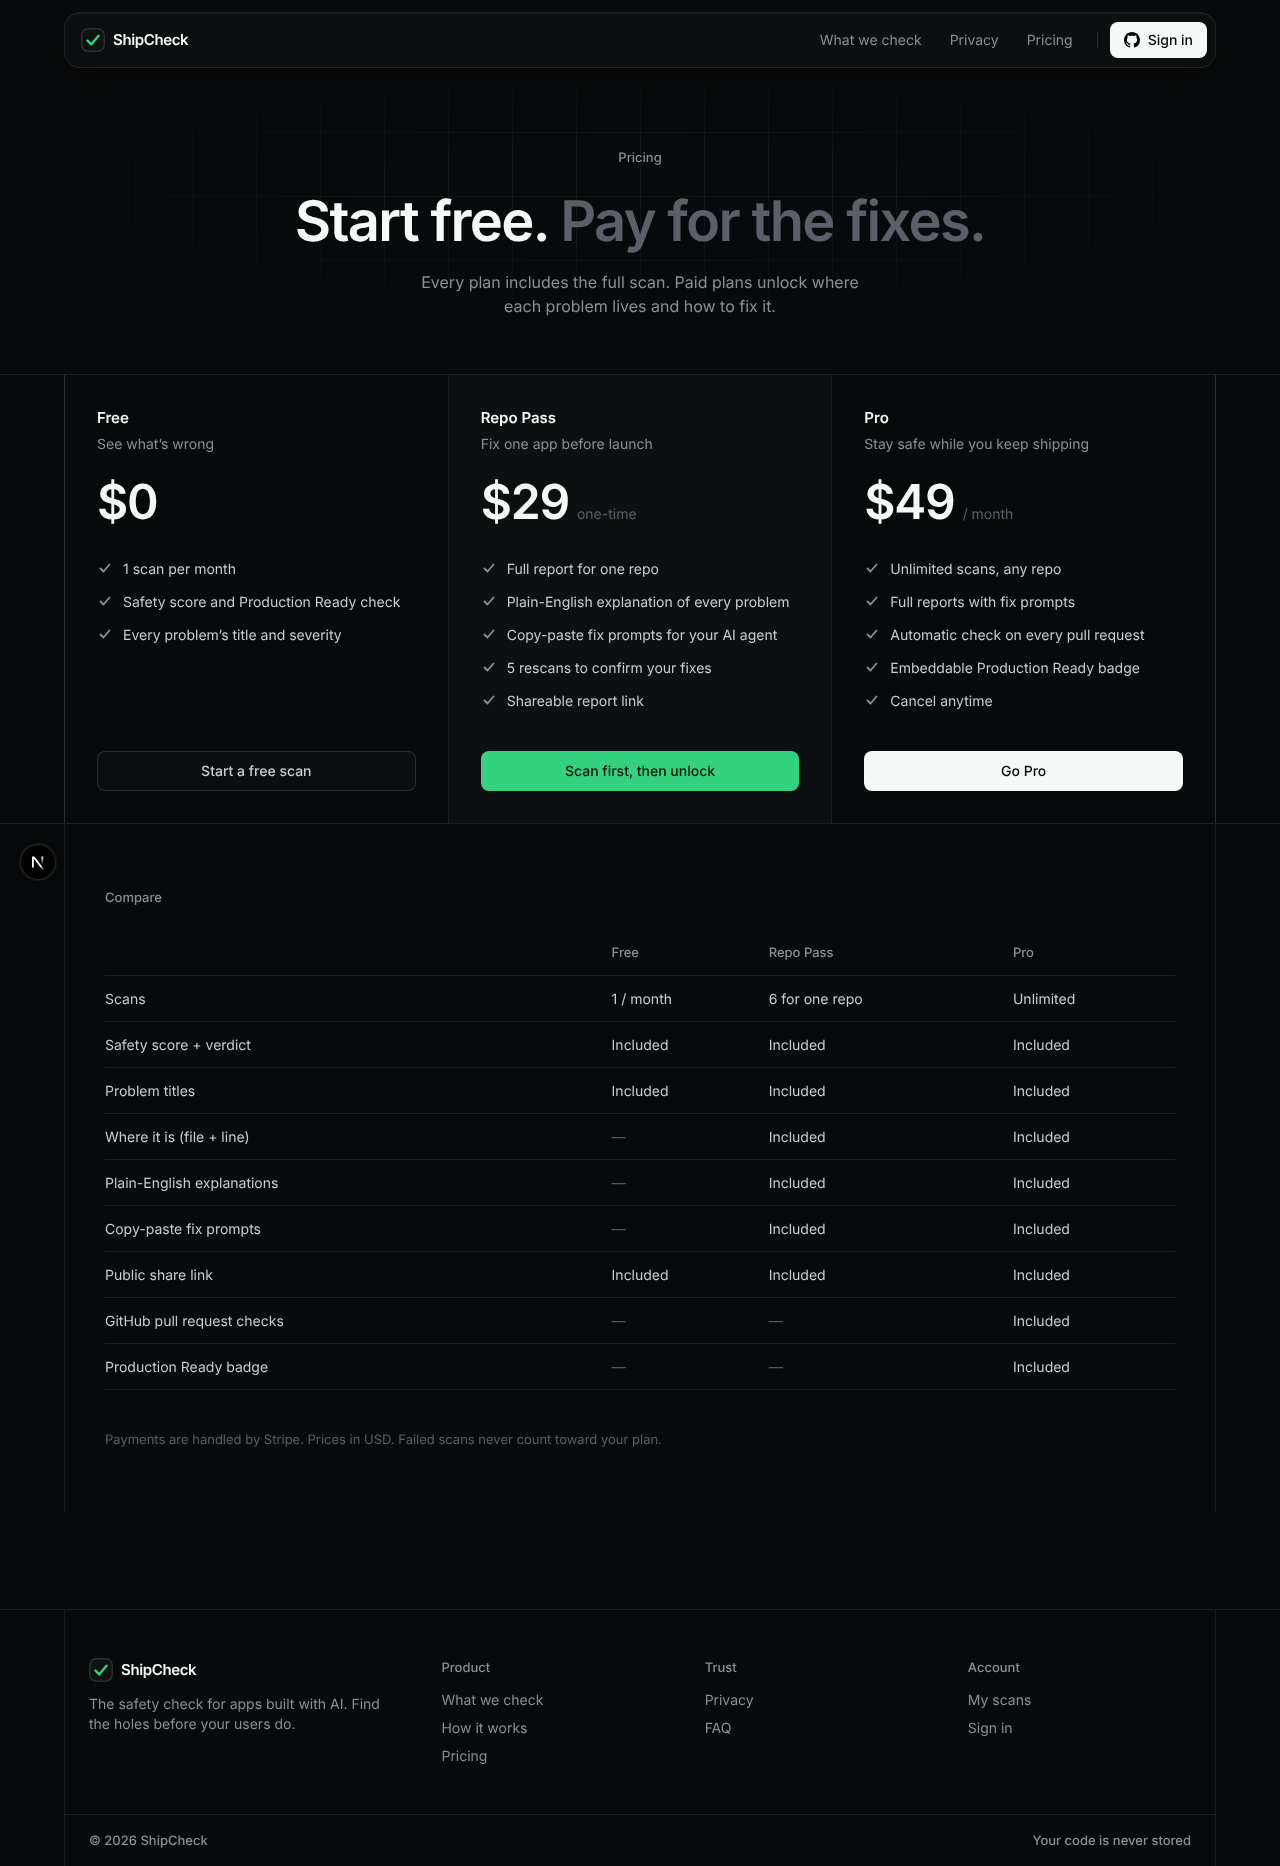
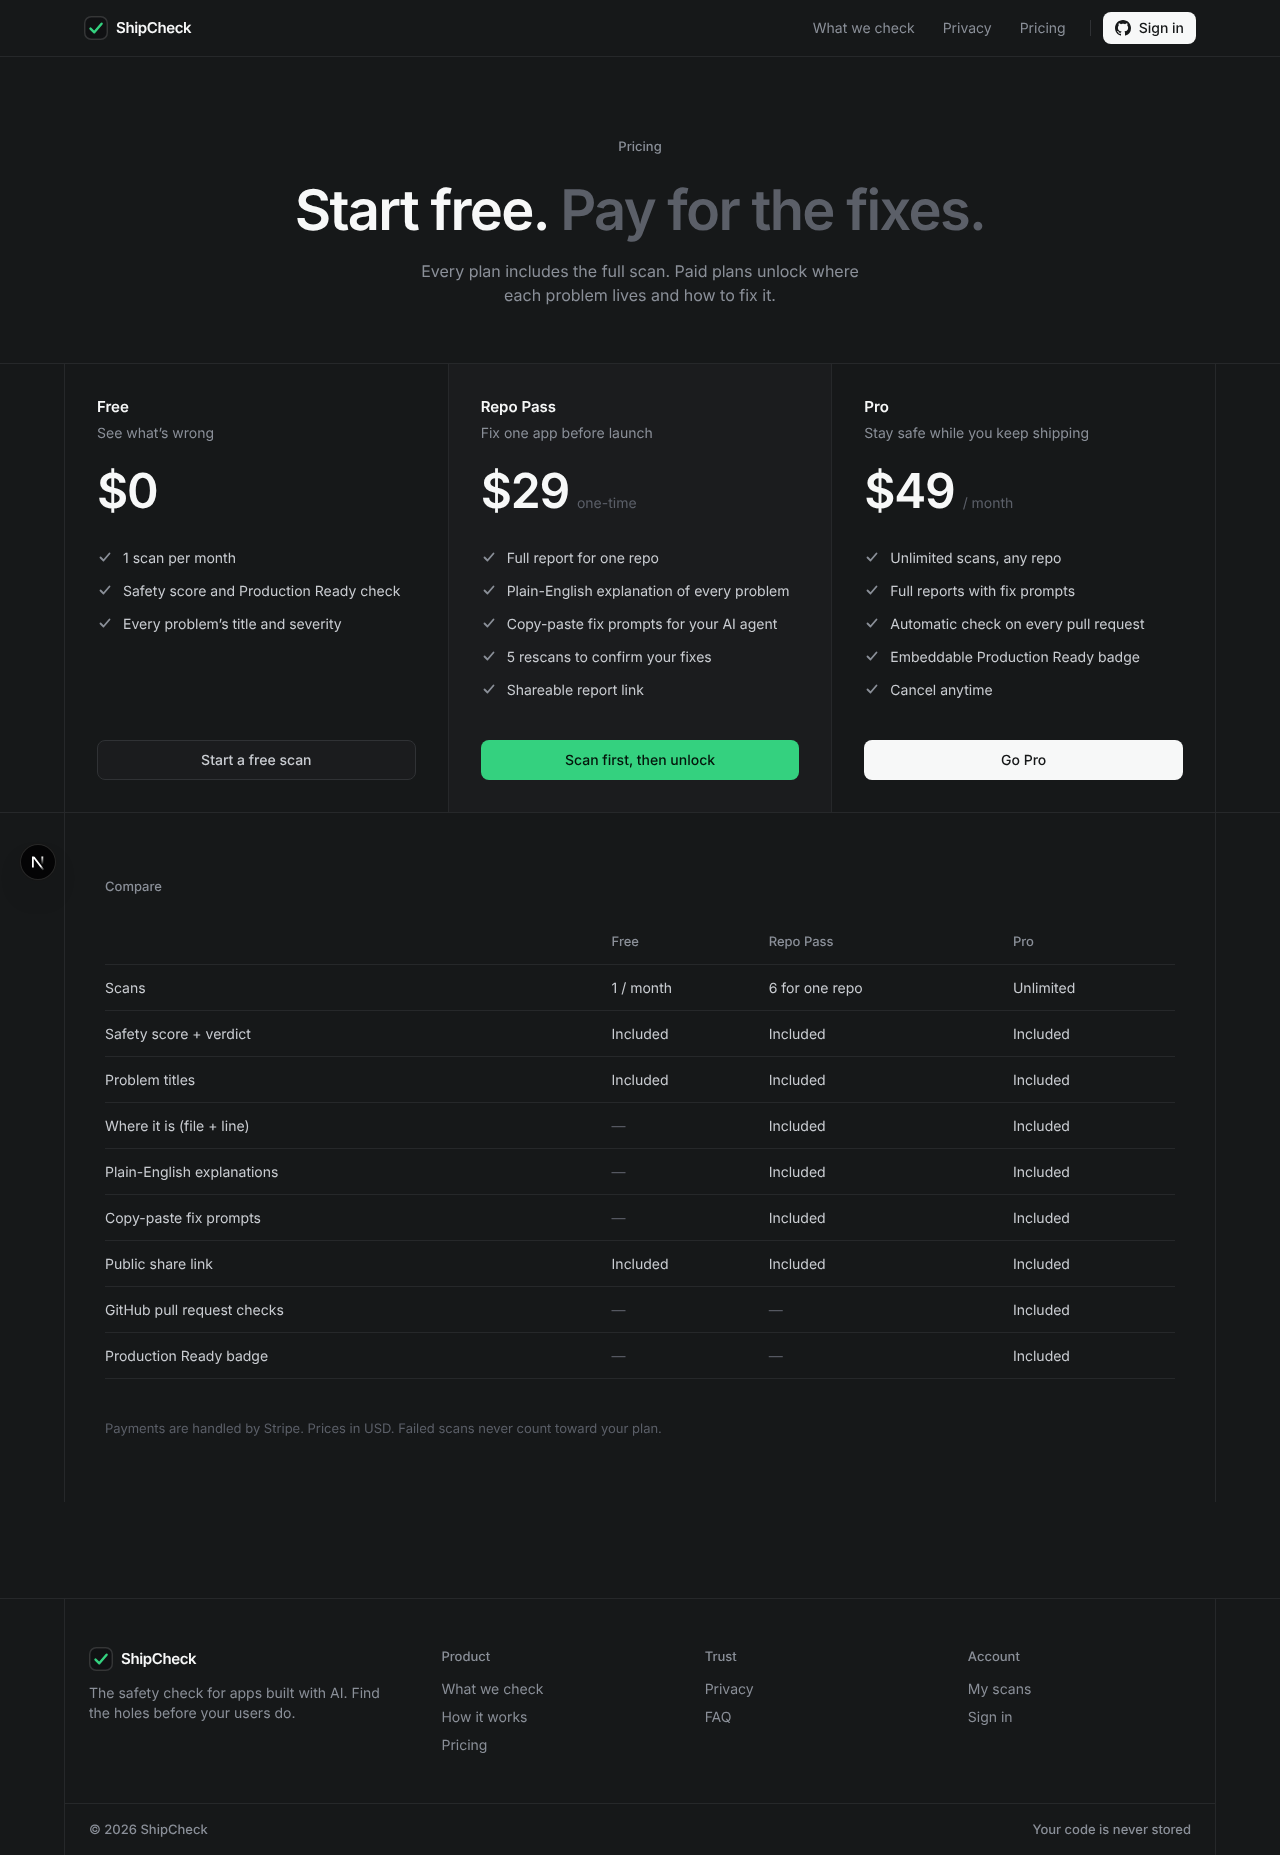
Match Linear's surface model: flush cards, hairline borders
Page #161819, cards #1b1c1e, nested boxes #222426 (lighter, never darker),
borders #26282a. Cards and windows lose their drop shadows and use 12px
corners; the floating header becomes a flat bar with a bottom hairline;
inputs and code boxes switch from black overlays to the nested surface;
decorative grid and dot textures are removed.

Claude-Session: https://claude.ai/code/session_018o5CNqjsf8rTVHTJeRiaFG

diff --git a/src/app/page.tsx b/src/app/page.tsx
@@ -34,11 +34,10 @@ export default async function Home({ searchParams }: PageProps<"/">) {
   const error = str(sp.error);
 
   return (
-    <div className="-mt-[68px]">
+    <div>
       {/* ── Hero ─────────────────────────────────────────────── */}
-      <section className="relative overflow-hidden pt-[68px]">
-        <div aria-hidden className="bg-grid fade-edges pointer-events-none absolute inset-0 opacity-60" />
-        <div className="relative mx-auto max-w-4xl px-5 pt-24 pb-16 text-center sm:pt-32">
+      <section className="relative">
+        <div className="relative mx-auto max-w-4xl px-5 pt-20 pb-16 text-center sm:pt-28">
           <p className="eyebrow">Pre-launch security audit for AI-built apps</p>
           <h1 className="display mt-6 text-[40px] text-balance sm:text-[56px] lg:text-[64px]">Is your vibe-coded app<br className="hidden sm:block" /> safe to launch?</h1>
           <p className="mx-auto mt-6 max-w-xl text-[17px] leading-relaxed text-balance text-ink-3 sm:text-lg">
@@ -111,7 +110,7 @@ export default async function Home({ searchParams }: PageProps<"/">) {
               <span className="font-mono text-[11px] text-ink-4">{String(i + 1).padStart(2, "0")}</span>
               <h3 className="mt-6 text-[17px] font-medium text-ink">{c.title}</h3>
               <p className="mt-2 text-sm leading-relaxed text-ink-3">{c.body}</p>
-              <div className="mt-6 flex items-center gap-2 rounded-lg border border-line bg-black/30 px-3 py-2 text-[12.5px] text-ink-2">
+              <div className="mt-6 flex items-center gap-2 rounded-lg border border-line bg-panel-2 px-3 py-2 text-[12.5px] text-ink-2">
                 <SeverityTag severity={c.sev} />
                 <span className="min-w-0 truncate">{c.example}</span>
               </div>
@@ -159,7 +158,7 @@ export default async function Home({ searchParams }: PageProps<"/">) {
           </div>
           <div className="space-y-4 p-5 text-[14px]">
             <div><p className="eyebrow">Why it matters</p><p className="mt-1.5 leading-relaxed text-ink-2">A user can change /invoices/123 to /invoices/124 and read someone else’s private data. It’s one of the most common real-world leaks.</p></div>
-            <div className="rounded-xl border border-line bg-black/40">
+            <div className="rounded-xl border border-line bg-panel-2">
               <div className="flex items-center justify-between border-b border-line px-3.5 py-2">
                 <span className="eyebrow">Fix prompt</span>
                 <span className="rounded-md bg-ink px-2 py-1 text-[12px] font-medium text-canvas">Copy prompt</span>
@@ -217,7 +216,7 @@ Please:
           </div>
           <Link href="/pricing" className="btn-ghost self-start sm:self-auto">Compare plans <ArrowRight /></Link>
         </div>
-        <div className="mt-10 grid gap-px overflow-hidden rounded-2xl border border-line bg-line sm:grid-cols-3">
+        <div className="mt-10 grid gap-px overflow-hidden rounded-xl border border-line bg-line sm:grid-cols-3">
           {[
             ["Free", "$0", "1 scan a month · see every problem’s title"],
             ["Repo Pass", "$29", "Full report + fix prompts for one repo · 5 rescans"],

diff --git a/src/app/globals.css b/src/app/globals.css
@@ -6,17 +6,20 @@
  * severity colours mean severity. No decorative glows or gradients.
  */
 :root {
-  --canvas: #08090a;
+  --canvas: #161819;
   color-scheme: dark;
 }
 
 @theme inline {
-  --color-canvas: #08090a;
-  --color-panel: #0e0f11;
-  --color-panel-2: #141518;
-  --color-panel-3: #1b1c20;
-  --color-line: rgb(255 255 255 / 0.08);
-  --color-line-2: rgb(255 255 255 / 0.13);
+  /* Surfaces sampled from Linear: cards sit almost flush with the page and are
+     separated by hairlines, not by contrast or shadow. Nested boxes go slightly
+     lighter, never darker. */
+  --color-canvas: #161819;
+  --color-panel: #1b1c1e;
+  --color-panel-2: #222426;
+  --color-panel-3: #2a2c2e;
+  --color-line: #26282a;
+  --color-line-2: #303235;
   --color-ink: #f7f8f8;
   --color-ink-2: #c9ccd1;
   --color-ink-3: #8a8f98;
@@ -44,12 +47,10 @@ body {
 
 /* ── Surfaces ─────────────────────────────────────────── */
 @utility card {
-  @apply rounded-2xl border border-line bg-panel;
-  box-shadow: inset 0 1px 0 0 rgb(255 255 255 / 0.04), 0 1px 2px rgb(0 0 0 / 0.4);
+  @apply rounded-xl border border-line bg-panel;
 }
 @utility window {
-  @apply overflow-hidden rounded-2xl border border-line-2 bg-panel;
-  box-shadow: inset 0 1px 0 0 rgb(255 255 255 / 0.04), 0 16px 40px -16px rgb(0 0 0 / 0.7);
+  @apply overflow-hidden rounded-xl border border-line bg-panel;
 }
 
 /* ── Type ─────────────────────────────────────────────── */
@@ -76,13 +77,13 @@ body {
   @apply btn bg-signal text-[#04150b] hover:bg-[#4ddb8f];
 }
 @utility btn-ghost {
-  @apply btn border border-line-2 bg-white/[0.02] text-ink-2 hover:bg-white/[0.06] hover:text-ink;
+  @apply btn border border-line-2 bg-panel text-ink-2 hover:bg-panel-2 hover:text-ink;
 }
 @utility kbd {
-  @apply inline-flex h-5 min-w-5 items-center justify-center rounded-[5px] border border-line-2 bg-white/[0.04] px-1 font-mono text-[11px] text-ink-3;
+  @apply inline-flex h-5 min-w-5 items-center justify-center rounded-[5px] border border-line-2 bg-panel-2 px-1 font-mono text-[11px] text-ink-3;
 }
 @utility field {
-  @apply w-full rounded-xl border border-line bg-black/30 px-3.5 py-2.5 text-[15px] text-ink placeholder:text-ink-4 transition focus:border-signal/50 focus:bg-black/40 focus:outline-none focus:ring-4 focus:ring-signal/10;
+  @apply w-full rounded-lg border border-line bg-panel-2 px-3.5 py-2.5 text-[15px] text-ink placeholder:text-ink-4 transition focus:border-line-2 focus:outline-none;
 }
 
 /* ── Decorative ───────────────────────────────────────── */

diff --git a/src/components/ShareControls.tsx b/src/components/ShareControls.tsx
@@ -38,7 +38,7 @@ export function ShareControls({ scanId, shareToken, initialPublic, appUrl, canBa
         <div className="mt-4 space-y-3">
           <CopyRow value={link} label="Public link" copied={copied === "link"} onCopy={() => copy(link, "link")} />
           {canBadge && productionReady ? (
-            <div className="rounded-lg border border-line bg-black/30 p-3">
+            <div className="rounded-lg border border-line bg-panel-2 p-3">
               <p className="eyebrow">README badge</p>
               {/* eslint-disable-next-line @next/next/no-img-element */}
               <img src={badgeUrl} alt="ShipCheck badge" className="mt-2 h-5" />
@@ -55,7 +55,7 @@ export function ShareControls({ scanId, shareToken, initialPublic, appUrl, canBa
 
 function CopyRow({ value, label, copied, onCopy }: { value: string; label: string; copied: boolean; onCopy: () => void }) {
   return (
-    <div className="flex items-center gap-1 rounded-lg border border-line bg-black/30 py-1 pr-1 pl-2.5">
+    <div className="flex items-center gap-1 rounded-lg border border-line bg-panel-2 py-1 pr-1 pl-2.5">
       <input readOnly value={value} aria-label={label} className="min-w-0 flex-1 bg-transparent font-mono text-[11.5px] text-ink-3 focus:outline-none" />
       <button type="button" onClick={onCopy} className={`h-7 shrink-0 rounded-md px-2.5 text-[12px] font-medium transition ${copied ? "bg-signal text-[#04150b]" : "bg-white/[0.07] text-ink-2 hover:bg-white/[0.12]"}`}>{copied ? "Copied" : "Copy"}</button>
     </div>

diff --git a/src/components/SiteChrome.tsx b/src/components/SiteChrome.tsx
@@ -6,8 +6,8 @@ import { GitHubIcon } from "./ui";
 export async function SiteHeader() {
   const user = await getCurrentUser().catch(() => null);
   return (
-    <header className="sticky top-0 z-40 px-3 pt-3">
-      <div className="mx-auto flex h-14 max-w-6xl items-center justify-between rounded-2xl border border-line bg-panel/70 pr-2 pl-4 shadow-[inset_0_1px_0_rgb(255_255_255/0.05),0_10px_30px_-10px_rgb(0_0_0/0.8)] backdrop-blur-xl">
+    <header className="sticky top-0 z-40 border-b border-line bg-canvas">
+      <div className="mx-auto flex h-14 max-w-6xl items-center justify-between px-5">
         <Link href="/" aria-label="ShipCheck home"><Wordmark /></Link>
         <nav className="flex items-center gap-1 text-sm">
           <Link href="/#checks" className="hidden rounded-lg px-3 py-1.5 text-ink-3 transition hover:text-ink md:block">What we check</Link>
@@ -28,7 +28,7 @@ export async function SiteHeader() {
               </form>
             </>
           ) : (
-            <a href="/api/auth/github?next=/dashboard" className="btn-white !h-9 !px-3.5">
+            <a href="/api/auth/github?next=/dashboard" className="btn-white !h-8 !px-3">
               <GitHubIcon /> Sign in
             </a>
           )}

diff --git a/src/components/FindingCard.tsx b/src/components/FindingCard.tsx
@@ -51,7 +51,7 @@ export function FindingCard({ f, categoryLabel, defaultOpen }: { f: ReportFindin
               <p className="mt-1.5 text-[14px] leading-relaxed text-ink-2"><Rich text={f.whyItMatters!} /></p>
             </section>
           </div>
-          <section className="min-w-0 overflow-hidden rounded-xl border border-line bg-black/40">
+          <section className="min-w-0 overflow-hidden rounded-xl border border-line bg-panel-2">
             <div className="flex items-center justify-between gap-2 border-b border-line px-3.5 py-2">
               <h4 className="eyebrow truncate">Fix prompt <span className="hidden text-ink-4 sm:inline">· paste into your AI tool</span></h4>
               <button type="button" onClick={copy} className={`flex h-7 shrink-0 items-center gap-1.5 rounded-md px-2.5 whitespace-nowrap text-[12px] font-medium transition ${copied ? "bg-signal text-[#04150b]" : "bg-ink text-canvas hover:bg-white"}`}>

diff --git a/src/components/ScanForm.tsx b/src/components/ScanForm.tsx
@@ -84,7 +84,7 @@ export function ScanForm({ signedIn, hasPrivateAccess, initialRepo = "", initial
           {problem.action && <a href={problem.action.href} className="font-medium text-ink underline decoration-ink-4 underline-offset-4 hover:decoration-ink">{problem.action.label} →</a>}
         </div>
       )}
-      <div className="flex items-center justify-between gap-3 border-t border-line bg-black/20 px-3 py-2.5">
+      <div className="flex items-center justify-between gap-3 border-t border-line bg-panel-2 px-3 py-2.5">
         <div className="hidden min-w-0 items-center gap-1.5 overflow-hidden md:flex">
           {CHECKS.slice(0, compact ? 3 : 5).map((c) => (
             <span key={c} className="flex items-center gap-1.5 rounded-md px-1.5 py-0.5 text-[11px] whitespace-nowrap text-ink-3">

diff --git a/src/app/scans/[id]/page.tsx b/src/app/scans/[id]/page.tsx
@@ -137,7 +137,7 @@ export default async function ScanPage({ params, searchParams }: PageProps<"/sca
           )}
         </div>
 
-        <aside className="space-y-4 lg:sticky lg:top-[88px] lg:self-start">
+        <aside className="space-y-4 lg:sticky lg:top-20 lg:self-start">
           <ShareControls scanId={scan.id} shareToken={scan.share_token} initialPublic={scan.is_public} appUrl={env.appUrl} canBadge={ent.pro} productionReady={ready} />
           <div className="card p-4">
             <h3 className="eyebrow">Checked areas</h3>

diff --git a/src/components/landing/ReportPreview.tsx b/src/components/landing/ReportPreview.tsx
@@ -56,7 +56,7 @@ export function ReportPreview() {
                 </li>
               ))}
             </ul>
-            <div className="border-t border-line bg-black/25 p-4">
+            <div className="border-t border-line bg-panel-2 p-4">
               <div className="flex items-center justify-between">
                 <SeverityTag severity="critical" />
                 <span className="flex items-center gap-1.5 rounded-md border border-line-2 px-2 py-1 text-[11px] text-ink-2">Copy fix prompt</span>

diff --git a/src/app/pricing/page.tsx b/src/app/pricing/page.tsx
@@ -35,7 +35,6 @@ export default async function Pricing() {
   return (
     <div>
       <div className="relative overflow-hidden">
-        <div aria-hidden className="bg-grid fade-edges absolute inset-0" />
         <div className="relative mx-auto max-w-3xl px-5 pt-20 pb-14 text-center">
           <BracketLabel className="justify-center">Pricing</BracketLabel>
           <h1 className="display mt-6 text-[40px] sm:text-[56px]">Start free. <span className="text-ink-4">Pay for the fixes.</span></h1>

diff --git a/src/app/dashboard/page.tsx b/src/app/dashboard/page.tsx
@@ -47,7 +47,6 @@ export default async function Dashboard() {
           </div>
           {scans.length === 0 ? (
             <div className="px-6 py-16 text-center">
-              <div className="bg-dots mx-auto h-16 w-40 [mask-image:radial-gradient(black,transparent_70%)]" />
               <p className="mt-2 text-ink-2">No scans yet</p>
               <p className="mt-1 text-sm text-ink-4">Paste a repo on the right to run your first one.</p>
             </div>

diff --git a/src/app/r/[token]/page.tsx b/src/app/r/[token]/page.tsx
@@ -22,7 +22,6 @@ export default async function PublicReport({ params }: PageProps<"/r/[token]">) 
 
   return (
     <div className="relative overflow-hidden">
-      <div aria-hidden className="bg-grid fade-edges absolute inset-0" />
       <div className="relative mx-auto max-w-2xl px-5 py-16">
         <p className="eyebrow text-center">ShipCheck safety report</p>
         <h1 className="headline mt-4 text-center text-[30px] sm:text-[40px]">{s.repo}</h1>

diff --git a/src/app/not-found.tsx b/src/app/not-found.tsx
@@ -3,7 +3,6 @@ import Link from "next/link";
 export default function NotFound() {
   return (
     <div className="relative overflow-hidden">
-      <div aria-hidden className="bg-grid fade-edges absolute inset-0" />
       <div className="relative mx-auto max-w-xl px-5 py-32 text-center">
         <p className="text-[13px] text-ink-4">Error 404</p>
         <h1 className="headline mt-4 text-[36px]">Nothing to scan here.</h1>
